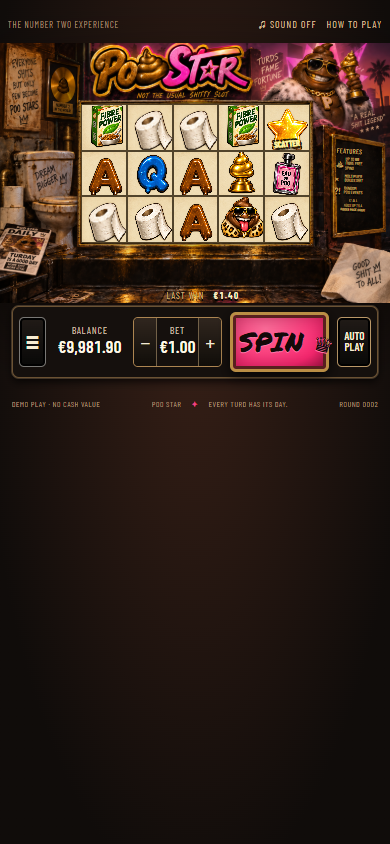
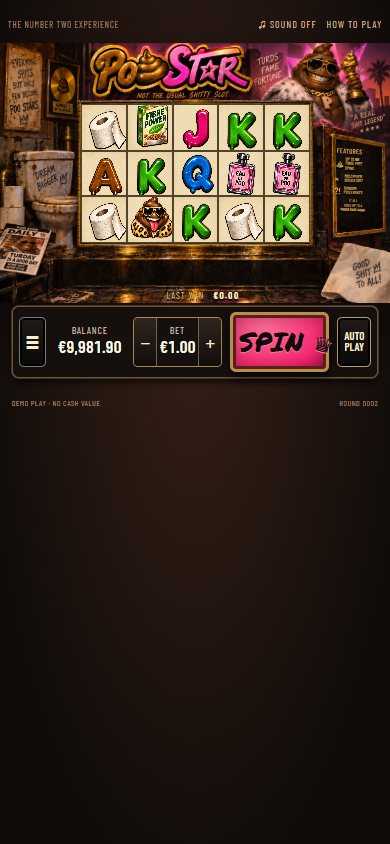
Remove remaining footer slogan

diff --git a/src/main.ts b/src/main.ts
@@ -16,7 +16,7 @@ app.innerHTML=`<div class="topline"><span>THE NUMBER TWO EXPERIENCE</span><div><
 <div class="controls"><button class="square menu" id="menu" aria-label="Open game menu">≡</button><div class="meter balance"><small>BALANCE</small><strong id="balance"></strong></div><div class="bet-box"><button id="minus" aria-label="Decrease bet">−</button><div class="meter"><small>BET</small><strong id="bet"></strong></div><button id="plus" aria-label="Increase bet">+</button></div><button id="spin" class="spin">SPIN <span class="crown">♛</span></button><button class="square max" id="max">MAX<br>BET</button><button class="square auto" id="auto" aria-pressed="false">AUTO<br>PLAY</button></div>
 <div class="win-readout">LAST WIN <strong id="win">€0.00</strong></div>
 <div class="celebration" id="celebration" hidden aria-live="polite"><span id="win-title">GOOD SHIT!</span><strong id="win-amount">€0.00</strong><small id="win-caption">THAT'S SHOW BUSINESS.</small></div>
-</section><footer><span>DEMO PLAY · NO CASH VALUE</span><span>POO STAR <i>✦</i> EVERY TURD HAS ITS DAY.</span><span id="round">ROUND 0000</span></footer>
+</section><footer><span>DEMO PLAY · NO CASH VALUE</span><span id="round">ROUND 0000</span></footer>
 <dialog id="dialog"><button id="close" class="close" aria-label="Close dialog">×</button><div id="dialog-body"></div></dialog>`;
 const el=<T extends HTMLElement=HTMLElement>(id:string)=>document.getElementById(id) as T;
 function tile(id:number,index:number){return `<div class="cell ${id===2?'scatter':id===5?'wild':''}" data-index="${index}" aria-label="${NAMES[id]}"><div class="symbol" style="--x:${id%4/3*100}%;--y:${Math.floor(id/4)/2*100}%"></div>${id===2?'<b class="symbol-label">SCATTER</b>':id===5?'<b class="symbol-label">WILD</b>':''}</div>`;}
